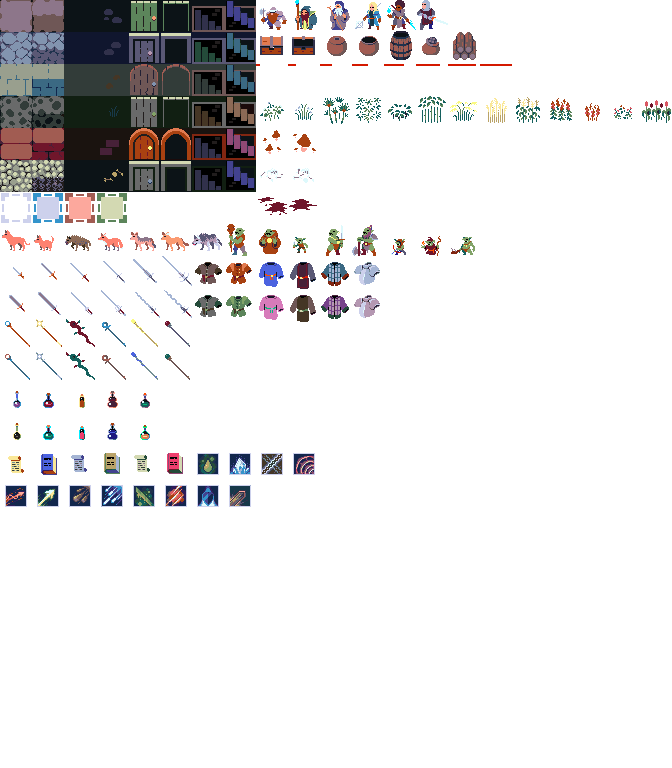
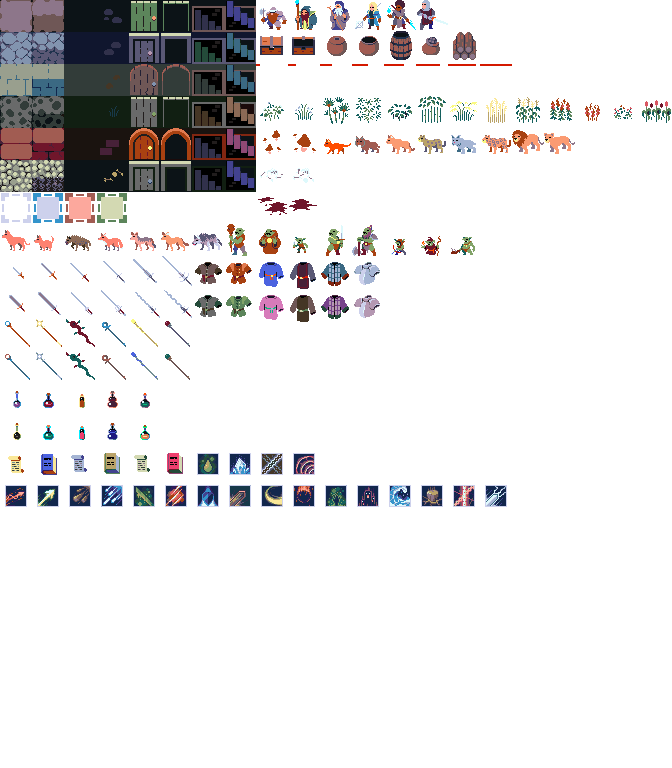
add more tiles

Changed region(s): [[0.4688, 0.1562, 0.8438, 0.2188], [0.375, 0.625, 0.7812, 0.6875]]

diff --git a/src/item.js b/src/item.js
@@ -8,7 +8,6 @@ Item = function (properties) {
   this.symbol = properties['symbol'] || '';
   this.type = properties['type'] || 'other';
   this.level = properties['level'] || 1;
-  this.price = properties['price'] || 1;
   this.color = properties['color'] || '#0000';
   this.timestamp = Math.random() * 1000 + Date.now();
 };
@@ -181,7 +180,11 @@ Game.doItem = function (action, num) {
     Game.messageBox.sendMessage(
       'You sacrificed the ' + Game.inventory[num].name + '.'
     );
-    Game.entity[0].piety += Game.inventory[num].price;
+    Game.entity[0].piety +=
+      1 +
+      Math.floor(Math.random() * Game.inventory[num].level) +
+      Math.floor(Math.pow(1.6, Game.inventory[num].level));
+
     Game.inventory.splice(num, 1);
   }
   if (action == 'drop') {
@@ -294,27 +297,48 @@ Game.doFoodOptions = function (num) {
 Game.ItemRepository = new Game.Repository('items', Item);
 Game.FoodRepository = new Game.Repository('items', Item);
 
-Game.ItemRepository.define('novicesword', function (level) {
-  this.name = 'novice sword (' + level + ')';
+Game.ItemRepository.define('rustedblade', function (level) {
+  this.name = 'rusted blade (' + level + ')';
   this.minLvl = 1;
   this.maxLvl = 5;
   this.type = 'weapon';
   this.level = level;
   this.color = '#0000';
   this.symbol = 'sword' + (Math.floor(Math.random() * 3) + 1);
-  this.price = level + Math.floor(Math.random() * level);
   this.options = {
     minatk: 1,
+    maxatk: 4 + Math.floor(Math.random() * level),
+    str: 1 + Math.floor(Math.random() * level)
+  };
+  if (Math.random() < rareItemChance) {
+    this.name = '%c{lightsalmon}rare ' + this.name + '%c{}';
+    this.level += 3;
+    this.options.maxatk += 4;
+    this.options.str += 1;
+    this.color = '#00f4';
+  }
+});
+
+Game.ItemRepository.define('ironsword', function (level) {
+  this.name = 'iron sword (' + level + ')';
+  this.minLvl = 1;
+  this.maxLvl = 10;
+  this.type = 'weapon';
+  this.level = level;
+  this.color = '#7733';
+  this.symbol = 'sword' + (Math.floor(Math.random() * 5) + 1);
+  this.options = {
+    minatk: 2,
     maxatk: 6 + Math.floor(Math.random() * level),
     str: 1 + Math.floor(Math.random() * level),
     con: 1 + Math.floor(Math.random() * level)
   };
   if (Math.random() < rareItemChance) {
     this.name = '%c{lightsalmon}rare ' + this.name + '%c{}';
-    this.price = this.price * 2;
-    this.options.maxatk = this.options.maxatk * 2;
+    this.level += 3;
+    this.options.maxatk += 5;
     this.options.str += 1;
-    this.color = '#00f4';
+    this.color = '#7735';
   }
 });
 
@@ -326,19 +350,40 @@ Game.ItemRepository.define('novicestaff', function (level) {
   this.level = level;
   this.color = '#0000';
   this.symbol = 'staff' + (Math.floor(Math.random() * 4) + 4);
-  this.price = level + Math.floor(Math.random() * level);
   this.options = {
     minatk: 1,
     maxatk: 4 + Math.floor(Math.random() * level),
-    int: 1 + Math.floor(Math.random() * level),
+    int: 1 + Math.floor(Math.random() * level)
+  };
+  if (Math.random() < rareItemChance) {
+    this.name = '%c{lightsalmon}rare ' + this.name + '%c{}';
+    this.level += 3;
+    this.options.maxatk += 2;
+    this.options.int += 1;
+    this.color = '#00f4';
+  }
+});
+
+Game.ItemRepository.define('sparkwand', function (level) {
+  this.name = 'spark wand (' + level + ')';
+  this.minLvl = 1;
+  this.maxLvl = 10;
+  this.type = 'weapon';
+  this.level = level;
+  this.color = '#fa03';
+  this.symbol = 'staff' + (Math.floor(Math.random() * 7) + 1);
+  this.options = {
+    minatk: 2,
+    maxatk: 5 + Math.floor(Math.random() * level),
+    int: 2 + Math.floor(Math.random() * level),
     agi: 1 + Math.floor(Math.random() * level)
   };
   if (Math.random() < rareItemChance) {
     this.name = '%c{lightsalmon}rare ' + this.name + '%c{}';
-    this.price = this.price * 2;
-    this.options.maxatk = this.options.maxatk * 2;
+    this.level += 3;
+    this.options.maxatk += 4;
     this.options.int += 1;
-    this.color = '#00f4';
+    this.color = '#fa05';
   }
 });
 
@@ -347,10 +392,9 @@ Game.FoodRepository.define('healingherb', function (level) {
   this.minLvl = 1;
   this.maxLvl = 50;
   this.type = 'food';
-  this.level = level;
+  this.level = 2;
   this.color = '#0000';
   this.symbol = 'herb' + (Math.floor(Math.random() * 12) + 1);
-  this.price = 1;
   this.options = {
     hp: 5 + Math.floor(Math.random() * level)
   };
@@ -359,12 +403,11 @@ Game.FoodRepository.define('healingherb', function (level) {
 Game.FoodRepository.define('magicalherb', function (level) {
   this.name = 'magical herb';
   this.minLvl = 1;
+  this.level = 2;
   this.maxLvl = 50;
   this.type = 'food';
-  this.level = level;
   this.color = '#0000';
   this.symbol = 'herb' + (Math.floor(Math.random() * 12) + 1);
-  this.price = 1;
   this.options = {
     mana: 5 + Math.floor(Math.random() * level)
   };
@@ -375,10 +418,9 @@ Game.FoodRepository.define('ancientherb', function (level) {
   this.minLvl = 1;
   this.maxLvl = 50;
   this.type = 'food';
-  this.level = level;
+  this.level = 2;
   this.color = '#0000';
   this.symbol = 'herb' + (Math.floor(Math.random() * 12) + 1);
-  this.price = 1;
   this.options = {
     hp: 5 + Math.floor(Math.random() * level),
     mana: 5 + Math.floor(Math.random() * level)
@@ -390,7 +432,7 @@ Game.FoodRepository.define('mysticalmushroom', function (level) {
   this.minLvl = 1;
   this.maxLvl = 50;
   this.type = 'food';
-  this.level = level;
+  this.level = 2;
   this.color = '#0000';
   this.symbol = 'mushroom' + (Math.floor(Math.random()) + 1);
   this.price = 1;
@@ -419,7 +461,6 @@ Game.ItemRepository.define('smallhealingpotion', function (level) {
   this.level = level;
   this.color = '#0000';
   this.symbol = 'potion' + (Math.floor(Math.random() * 9) + 1);
-  this.price = level + Math.floor(Math.random() * level);
   this.options = {
     hp: 3 + Math.floor(Math.random() * level * 3),
     mana: 3 + Math.floor(Math.random() * level * 3)
@@ -441,7 +482,6 @@ Game.ItemRepository.define('smallgrowthpotion', function (level) {
   this.level = level;
   this.color = '#0000';
   this.symbol = 'potion' + (Math.floor(Math.random() * 9) + 1);
-  this.price = 1 + level + Math.floor(Math.random() * level);
   this.options = {};
   switch (ROT.RNG.getItem(['str', 'con', 'agi', 'int'])) {
     case 'str':
@@ -467,7 +507,6 @@ Game.ItemRepository.define('novicearmor', function (level) {
   this.level = level;
   this.color = '#0000';
   this.symbol = 'armor' + (Math.floor(Math.random() * 3) + 1);
-  this.price = level + Math.floor(Math.random() * level);
   this.options = {
     defense: 1 + Math.floor(Math.random() * level),
     str: 1 + Math.floor(Math.random() * level),
@@ -475,7 +514,7 @@ Game.ItemRepository.define('novicearmor', function (level) {
   };
   if (Math.random() < rareItemChance) {
     this.name = '%c{lightsalmon}rare ' + this.name + '%c{}';
-    this.price = this.price * 2;
+    this.level += 3;
     this.options.defense = this.options.defense * 2;
     this.options.agi += 1;
     this.color = '#00f4';
@@ -498,7 +537,7 @@ Game.ItemRepository.define('noviceheavyarmor', function (level) {
   };
   if (Math.random() < rareItemChance) {
     this.name = '%c{lightsalmon}rare ' + this.name + '%c{}';
-    this.price = this.price * 2;
+    this.level += 3;
     this.options.defense = this.options.defense * 2;
     this.options.str += 1;
     this.color = '#00f4';

diff --git a/src/entity.js b/src/entity.js
@@ -84,7 +84,9 @@ Entity.prototype.doDie = function () {
       Game.messageBox.sendMessage('The ' + this.name + ' destroyed.');
     }
     Game.entity[0].piety +=
-      this.level + Math.floor(Math.random() * this.level * 0.5);
+      1 +
+      Math.floor(Math.random() * this.level) +
+      Math.floor(Math.pow(1.8, this.level));
     if (this.name.startsWith('%c{lightsalmon}rare')) {
       let newItem = Game.ItemRepository.createRandom(
         this.level,
@@ -219,7 +221,6 @@ Entity.prototype.doHunt = function () {
         }
       }
       if (useSkill) {
-        console.log(_skill);
         this.doSkills(0, _skill);
         return;
       }
@@ -317,6 +318,33 @@ Game.EntityRepository.define('dogs', function (level) {
   this.int = 1 + Math.floor(Math.random() * level * 2);
   this.con = 1 + Math.floor(Math.random() * level * 2);
   this.maxAtk = 2 + Math.floor(Math.random() * level * 2);
+  this.acts = {
+    Hunt: true,
+    Attack: true,
+    Actor: true
+  };
+  this.symbol = this.name;
+});
+
+Game.EntityRepository.define('cats', function (level) {
+  this.minLvl = 3;
+  this.maxLvl = 13;
+  this.level = level;
+  this.name = ROT.RNG.getItem([
+    'cat',
+    'bobcat',
+    'cougar',
+    'cheetah',
+    'lynx',
+    'ocelot',
+    'malelion',
+    'femalelion'
+  ]);
+  this.str = 2 + Math.floor(Math.random() * level * 2);
+  this.agi = 4 + Math.floor(Math.random() * level * 2);
+  this.int = 1 + Math.floor(Math.random() * level * 2);
+  this.con = 2 + Math.floor(Math.random() * level * 2);
+  this.maxAtk = 4 + Math.floor(Math.random() * level * 2);
   this.acts = {
     Hunt: true,
     Attack: true,

diff --git a/src/tiles.js b/src/tiles.js
@@ -80,6 +80,14 @@ const gameTilemap = {
   jackal: [128, 224],
   coyote: [160, 224],
   wolf: [192, 224],
+  cat: [320, 128],
+  bobcat: [352, 128],
+  cougar: [384, 128],
+  cheetah: [416, 128],
+  lynx: [448, 128],
+  ocelot: [480, 128],
+  malelion: [512, 128],
+  femalelion: [544, 128],
   goblin1: [224, 224],
   goblin2: [256, 224],
   goblin3: [288, 224],
@@ -178,5 +186,13 @@ const gameTilemap = {
   poisonslash: [128, 480],
   rapidcut: [160, 480],
   iceshield: [192, 480],
-  strengthofstone: [223, 480]
+  strengthofstone: [224, 480],
+  twistingslash: [256, 480],
+  fireball: [288, 480],
+  acidcloud: [320, 480],
+  calltheshadows: [352, 480],
+  tsunami: [384, 480],
+  crackedearth: [416, 480],
+  firechains: [448, 480],
+  lightningstrike: [480, 480]
 };

diff --git a/src/skills.js b/src/skills.js
@@ -9,6 +9,7 @@ Skill = function (properties) {
   this.symbol = properties['symbol'] || '';
   this.target = properties['target'] || '';
   this.type = properties['type'] || '';
+  this.selfProtect = properties['selfProtect'] || false;
   this.weapon = properties['weapon'] || false;
 };
 
@@ -245,7 +246,7 @@ Game.useSkill = function (actor, skill, skillx, skilly) {
         if (skill.weapon) {
           result += Math.floor(
             (Math.random() * (actor.maxAtk - actor.minAtk) + actor.minAtk) *
-              (1 + actor.int * 0.07)
+              (1 + actor.str * 0.07)
           );
         }
         let _color = skill.name.match(/^([^}]+)}/)[0];
